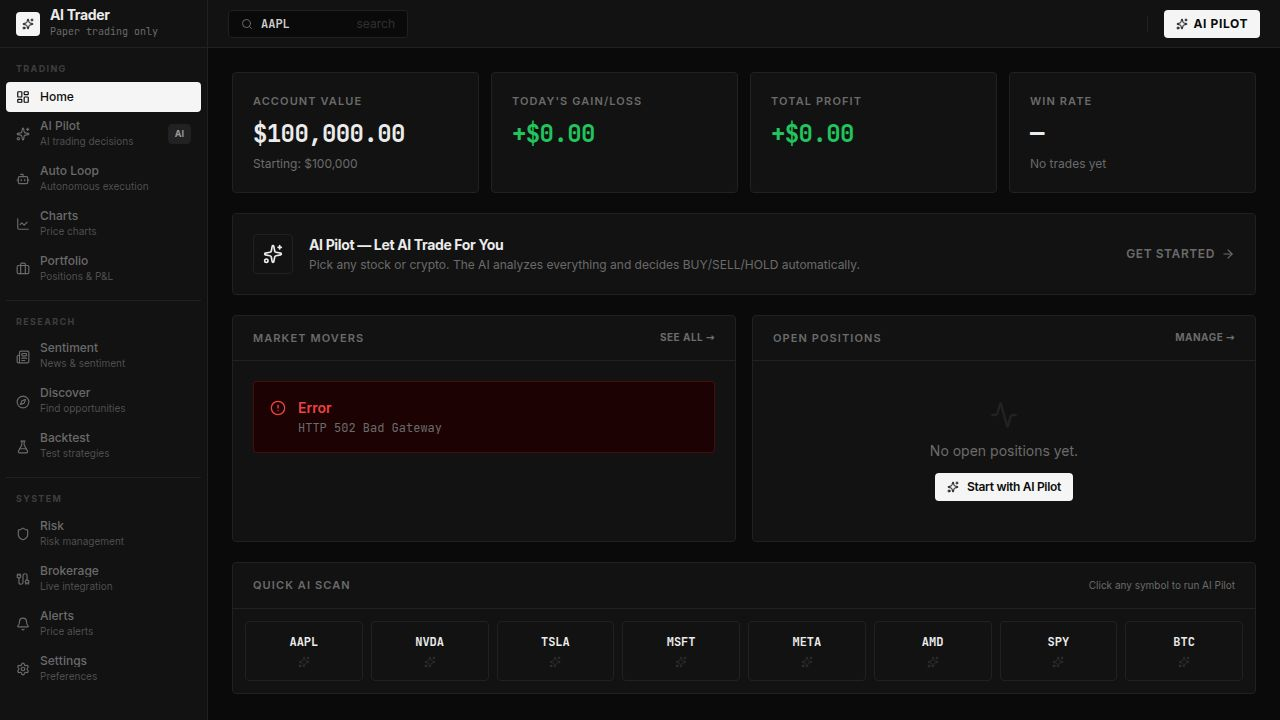
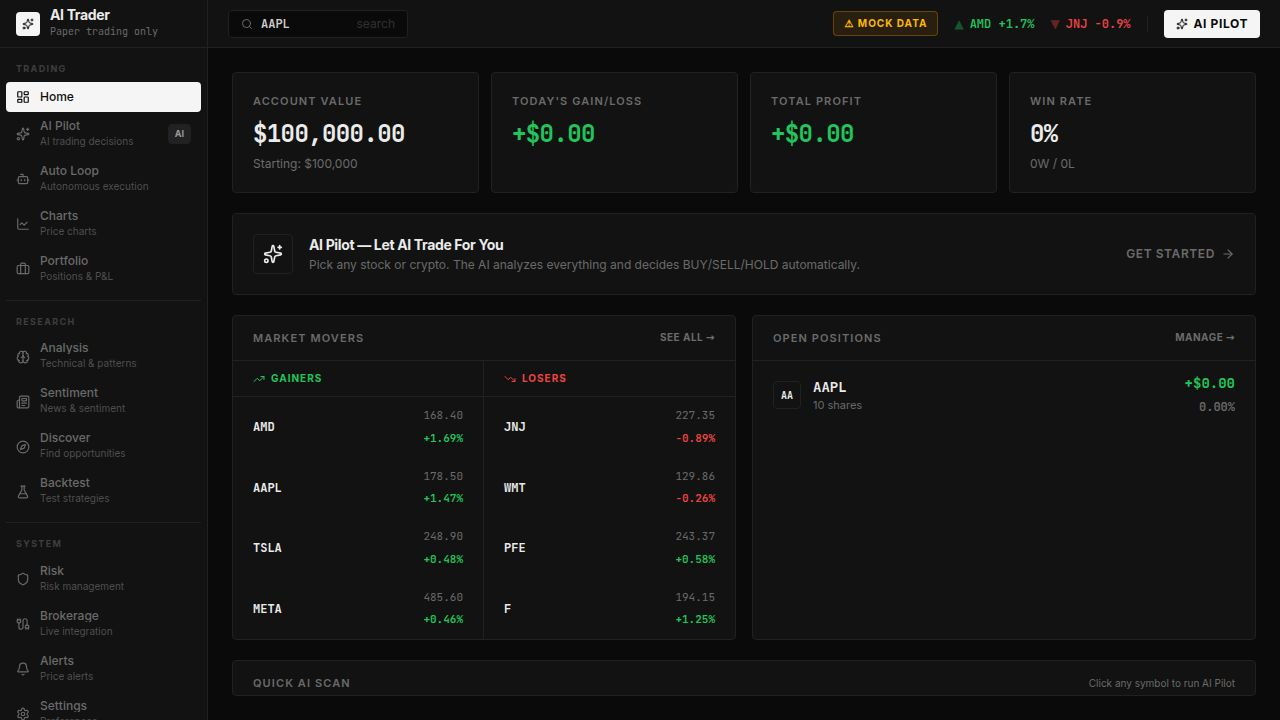
Add redirect for paper trading and improve data handling
Implement a redirect from the `/paper-trading` route to `/brokerage` and update multiple components to correctly handle API data shapes, ensuring positions and chart history are properly extracted.

Replit-Commit-Author: Agent
Replit-Commit-Session-Id: 28f7d5df-4c62-4a4f-96f2-c9e4948f312b
Replit-Commit-Checkpoint-Type: full_checkpoint
Replit-Commit-Event-Id: 3d8d47ad-0a03-4fe5-a5b6-d4465fcca1f4
Replit-Commit-Screenshot-Url: https://storage.googleapis.com/screenshot-production-us-central1/fa4fa9e9-a562-42fb-8b21-03c6ff1ce278/28f7d5df-4c62-4a4f-96f2-c9e4948f312b/XNMWfcP
Replit-Helium-Checkpoint-Created: true

diff --git a/artifacts/trading-terminal/src/pages/dashboard.tsx b/artifacts/trading-terminal/src/pages/dashboard.tsx
@@ -11,7 +11,8 @@ const QUICK_SYMBOLS = ["AAPL", "NVDA", "TSLA", "MSFT", "META", "AMD", "SPY", "BT
 export default function Dashboard() {
   const { setSelectedSymbol } = useAppState();
   const { data: movers, isLoading: loadingMovers, error: moversError } = useGetMarketMovers({ query: { retry: false } });
-  const { data: positions } = useGetPositions({ query: { retry: false } });
+  const { data: positionsData } = useGetPositions({ query: { retry: false } });
+  const positions = Array.isArray((positionsData as any)?.positions) ? (positionsData as any).positions : Array.isArray(positionsData) ? positionsData : [];
   const { data: portfolio } = useGetPortfolio({ query: { retry: false } });
   const { data: stats } = useGetTradeStats({ query: { retry: false } });
 

diff --git a/artifacts/trading-terminal/src/pages/chart.tsx b/artifacts/trading-terminal/src/pages/chart.tsx
@@ -107,7 +107,8 @@ function ChartWidget({ symbol }: { symbol: string }) {
   const [activeOverlays, setActiveOverlays] = useState<Set<OverlayId>>(new Set());
 
   const { data: quote } = useGetQuote(symbol, { query: { refetchInterval: 10000 } });
-  const { data: history, isLoading, error } = useGetMarketHistory(symbol, { timeframe, period });
+  const { data: historyData, isLoading, error } = useGetMarketHistory(symbol, { timeframe, period });
+  const history = Array.isArray((historyData as any)?.candles) ? (historyData as any).candles : Array.isArray(historyData) ? historyData : undefined;
 
   const chartContainerRef = useRef<HTMLDivElement>(null);
   const chartRef = useRef<IChartApi | null>(null);

diff --git a/artifacts/trading-terminal/src/pages/portfolio.tsx b/artifacts/trading-terminal/src/pages/portfolio.tsx
@@ -11,7 +11,8 @@ export default function PortfolioPage() {
   const queryClient = useQueryClient();
   const { data: portfolio, isLoading: loadPort, error: errPort } = useGetPortfolio();
   const { data: stats, isLoading: loadStats } = useGetTradeStats();
-  const { data: positions, isLoading: loadPos } = useGetPositions();
+  const { data: positionsData, isLoading: loadPos } = useGetPositions();
+  const positions = Array.isArray((positionsData as any)?.positions) ? (positionsData as any).positions : Array.isArray(positionsData) ? positionsData : [];
   const { data: trades, isLoading: loadTrades } = useGetTrades({ limit: 30 });
 
   const closeMutation = useCloseTrade({

diff --git a/artifacts/trading-terminal/src/hooks/use-paper-trade-form.ts b/artifacts/trading-terminal/src/hooks/use-paper-trade-form.ts
@@ -7,7 +7,8 @@ export type TradeSide = "long" | "short";
 export function usePaperTradeForm(selectedSymbol: string) {
   const queryClient = useQueryClient();
 
-  const { data: positions, isLoading, error } = useGetPositions();
+  const { data: positionsData, isLoading, error } = useGetPositions();
+  const positions = Array.isArray((positionsData as any)?.positions) ? (positionsData as any).positions : Array.isArray(positionsData) ? positionsData : [];
   const { data: quote } = useGetQuote(selectedSymbol);
 
   const [side, setSide] = useState<TradeSide>("long");

diff --git a/artifacts/trading-terminal/src/App.tsx b/artifacts/trading-terminal/src/App.tsx
@@ -51,6 +51,7 @@ function Router() {
         <Route path="/watchlist"><Redirect to="/discover" /></Route>
         <Route path="/ideas"><Redirect to="/discover" /></Route>
         <Route path="/trade"><Redirect to="/autopilot" /></Route>
+        <Route path="/paper-trading"><Redirect to="/brokerage" /></Route>
         <Route component={NotFound} />
       </Switch>
     </Layout>

diff --git a/artifacts/trading-terminal/src/components/layout.tsx b/artifacts/trading-terminal/src/components/layout.tsx
@@ -23,7 +23,8 @@ function useHasMockData(): boolean {
 
   useEffect(() => {
     const unsub = qc.getQueryCache().subscribe(() => {
-      setHasMock(check());
+      // Defer to avoid setState-during-render warning when a query resolves mid-render
+      queueMicrotask(() => setHasMock(check()));
     });
     return unsub;
   }, [qc]);

diff --git a/replit.md b/replit.md
@@ -61,6 +61,15 @@ A professional Bloomberg-style dark terminal for paper trading, AI technical ana
 - Default data: 3 watchlists seeded (Tech Leaders: 8 symbols, Index ETFs: 5 symbols, Momentum Plays: 6 symbols), default settings row (accountSize: $100,000)
 - Schema pushed via `pnpm --filter @workspace/db run push`
 
+### Critical Data-Shape Pattern
+
+Many API endpoints return wrapped objects `{ data, isMock: true }` — NOT raw arrays. Always extract:
+- Positions: `Array.isArray(x?.positions) ? x.positions : Array.isArray(x) ? x : []`
+- Chart history: `data?.candles` (from `{ candles, isMock }`)
+- Portfolio: flat object (no wrapping): `{ accountSize, cash, equity, totalPnl, ... }`
+
+Files already fixed for this pattern: `chart.tsx`, `portfolio.tsx`, `dashboard.tsx`, `ai-pilot.tsx`, `use-paper-trade-form.ts`, `layout.tsx` (uses `queueMicrotask` to avoid render-phase setState).
+
 ### Live Market Data
 - `TRADER_SAGE_API_KEY` env variable: set to enable real Trader Sage API
 - Without the key (or if unreachable), all endpoints return deterministic mock data with realistic price ranges
@@ -95,7 +104,7 @@ Express 5 API server.
 
 React + Vite frontend.
 
-- `src/pages/` — 9 pages
+- `src/pages/` — 13 pages (dashboard, ai-pilot, autonomous, chart, portfolio, analysis, sentiment, discover, backtesting, risk, brokerage, alerts, settings)
 - `src/components/terminal-ui.tsx` — shared UI components (TerminalCard, TerminalButton, SignalBadge, PriceChange, DataPoint, etc.)
 - `src/components/layout.tsx` — sidebar nav + header with equity/P&L ticker
 - `src/lib/utils.ts` — `formatCurrency`, `formatPrice`, `formatPercent`, `formatNumber` (all null-safe)
